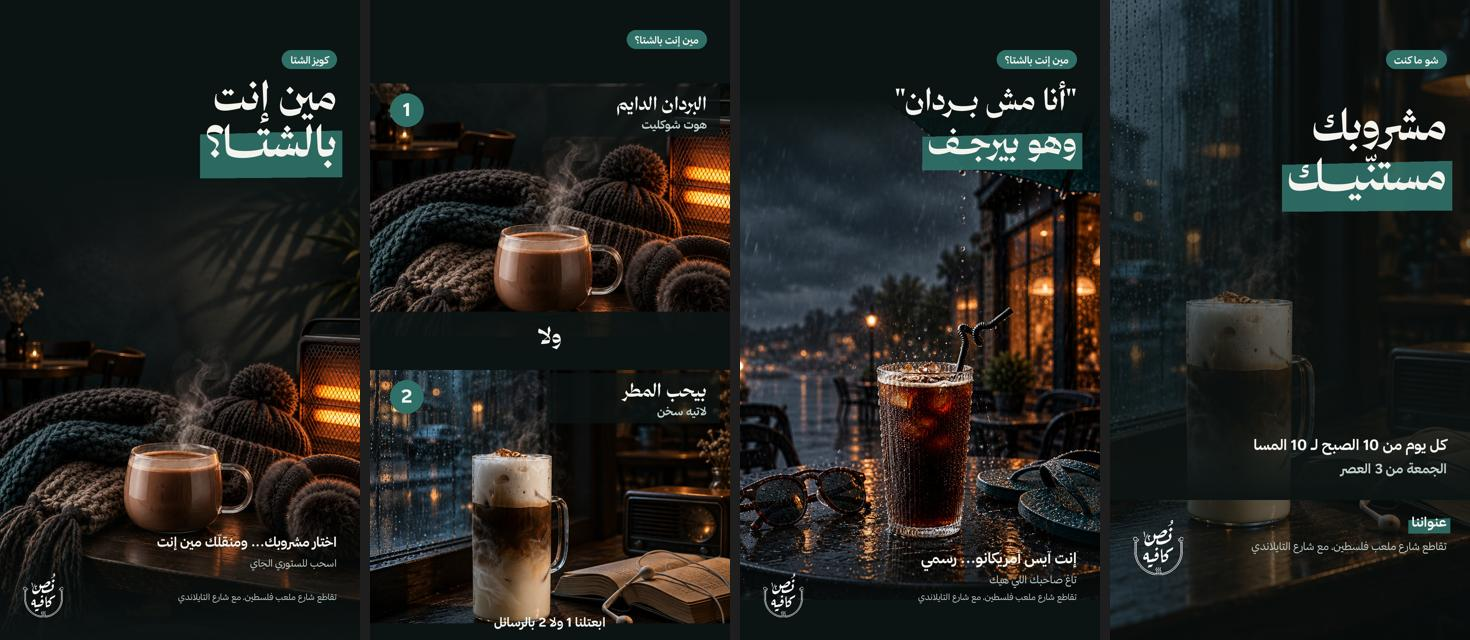
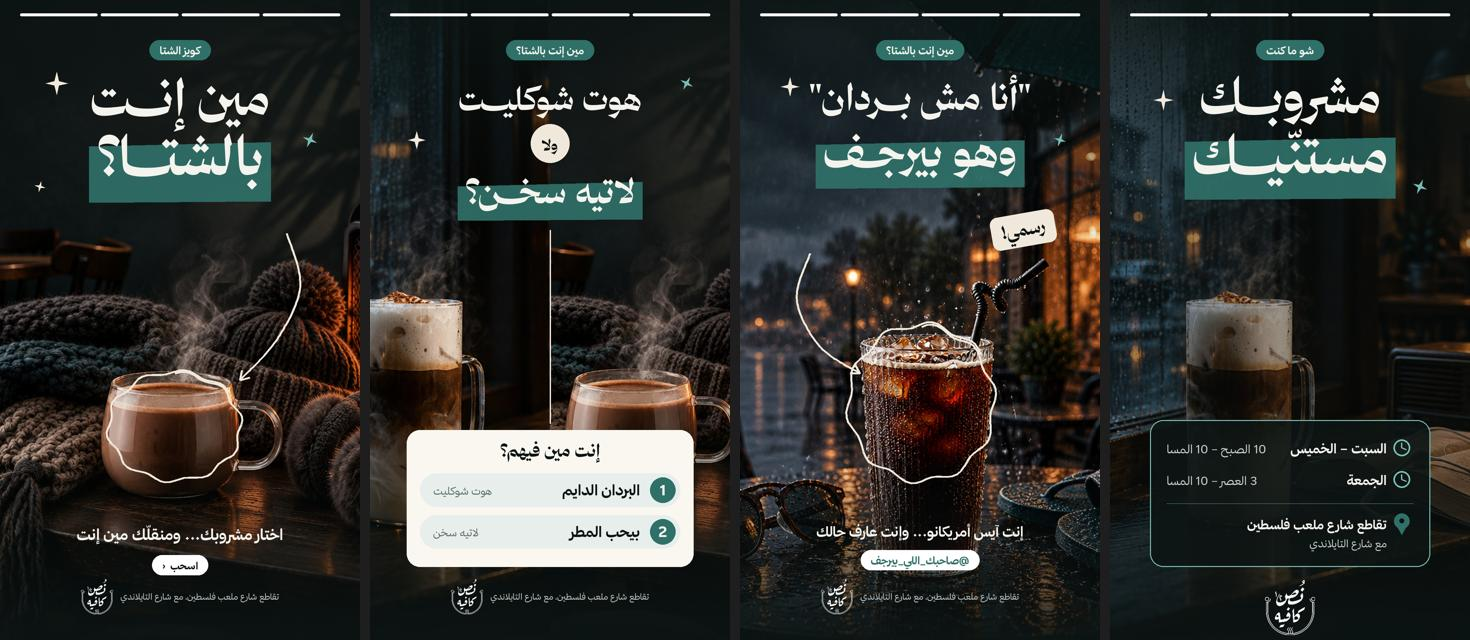
Redesign story sequence: centered layout, poll card, doodles, progress bar
Claude-Session: https://claude.ai/code/session_015dwSS3fWoFBppmEP84oyNx

diff --git a/tools/story_who.py b/tools/story_who.py
@@ -1,63 +1,132 @@
 exec(open('/tmp/claude-0/-home-user-nusscafee/f7fad810-a083-54af-b56f-880f141af58a/scratchpad/post.py').read())
-import os
-SW,SH=1080,1920; BG=(12,20,19); MUT=(190,205,202)
-O=S+'out/story_who/'; os.makedirs(O,exist_ok=True)
-def fit(im,w,h,cy=.5):
-    s=max(w/im.width,h/im.height); im=im.resize((round(im.width*s),round(im.height*s)),Image.LANCZOS)
+import os,math,random
+random.seed(7)
+SW,SH=1080,1920; CX=SW//2; BG=(12,20,19); MUT=(195,208,205); TL=(120,190,180); CREAM=(240,232,218)
+O=S+'out/story_who2/'; os.makedirs(O,exist_ok=True)
+def fit(im,w,h,cy=.5,zoom=1.0):
+    s=max(w/im.width,h/im.height)*zoom; im=im.resize((round(im.width*s),round(im.height*s)),Image.LANCZOS)
     x=(im.width-w)//2; y=int((im.height-h)*cy); return im.crop((x,y,x+w,y+h))
-def canvas(): return Image.new('RGBA',(SW,SH),BG+(255,))
-def fade(img,y0,y1,up=True):
+def grad(img,y0,y1,a0,a1):
     ov=Image.new('RGBA',(SW,SH),(0,0,0,0)); d=ImageDraw.Draw(ov)
     for y in range(y0,y1):
-        t=(y-y0)/(y1-y0); a=int(255*(t if up else 1-t)**1.2); d.line([(0,y),(SW,y)],fill=BG+(a,))
+        t=(y-y0)/max(1,y1-y0); d.line([(0,y),(SW,y)],fill=BG+(int(a0+(a1-a0)*t),))
     img.alpha_composite(ov)
-def pill(d,txt,y,xr=1010,f=None):
-    f=f or SB(30); w=tw(d,txt,f); d.rounded_rectangle([xr-w-48,y,xr,y+56],radius=28,fill=TEAL); d.text((xr-24,y+41),txt,font=f,fill=WHITE,direction='rtl',anchor='rs')
-def R(d,x,y,t,f,fill=WHITE,anchor='rs'): d.text((x,y),t,font=f,fill=fill,direction='rtl',anchor=anchor)
-def HL(img,x,y,t,f):
-    d=ImageDraw.Draw(img); hl(img,d,x,y,t,f,pad=(16,4),skew=8); d=ImageDraw.Draw(img); R(d,x,y,t,f)
-def logo(img,x,y,w=120):
-    lg=Image.open(S+'logo.png').convert('RGBA'); lg=lg.resize((w,round(lg.height*w/lg.width)),Image.LANCZOS); img.alpha_composite(lg,(x,y))
-def foot(img):
-    d=ImageDraw.Draw(img); logo(img,70,SH-200); R(d,1010,SH-120,'تقاطع شارع ملعب فلسطين، مع شارع التايلاندي',SR(26),MUT)
+def C(d,y,t,f,fill=WHITE): d.text((CX,y),t,font=f,fill=fill,direction='rtl',anchor='ms')
+def W(d,t,f): return tw(d,t,f)
+def HLC(img,y,t,f,skew=9):
+    d=ImageDraw.Draw(img); w=W(d,t,f); xr=CX+w/2
+    hl(img,d,xr,y,t,f,pad=(22,6),skew=skew); d=ImageDraw.Draw(img); d.text((xr,y),t,font=f,fill=WHITE,direction='rtl',anchor='rs')
+def progress(img,i,n=4):
+    d=ImageDraw.Draw(img); gap=10; w=(SW-120-gap*(n-1))/n
+    for k in range(n):
+        x=60+k*(w+gap); d.rounded_rectangle([x,40,x+w,48],radius=4,fill=(255,255,255,235) if k<=i else (255,255,255,80))
+def pillC(img,y,t,f=None,fill=TEAL,fg=WHITE):
+    d=ImageDraw.Draw(img); f=f or SB(32); w=W(d,t,f)
+    d.rounded_rectangle([CX-w/2-30,y,CX+w/2+30,y+60],radius=30,fill=fill); d.text((CX,y+43),t,font=f,fill=fg,direction='rtl',anchor='ms')
+def sparkle(img,x,y,r,col=CREAM,rot=0):
+    d=ImageDraw.Draw(img); pts=[]
+    for k in range(8):
+        a=rot+k*math.pi/4; rr=r if k%2==0 else r*.28
+        pts.append((x+rr*math.cos(a),y+rr*math.sin(a)))
+    d.polygon(pts,fill=col)
+def curve(pts,n=24):
+    P=[pts[0]]+pts+[pts[-1]]; out=[]
+    for i in range(1,len(P)-2):
+        p0,p1,p2,p3=P[i-1],P[i],P[i+1],P[i+2]
+        for k in range(n):
+            t=k/n; t2,t3=t*t,t*t*t
+            out.append(tuple(.5*((2*p1[j])+(-p0[j]+p2[j])*t+(2*p0[j]-5*p1[j]+4*p2[j]-p3[j])*t2+(-p0[j]+3*p1[j]-3*p2[j]+p3[j])*t3) for j in (0,1)))
+    out.append(pts[-1]); return out
+def arrow(img,pts,col=CREAM,w=6):
+    d=ImageDraw.Draw(img); c=curve(pts); d.line(c,fill=col,width=w,joint='curve')
+    (ax,ay),(bx,by)=c[-5],c[-1]; a=math.atan2(by-ay,bx-ax)
+    for s in (.55,-.55): d.line([(bx,by),(bx-30*math.cos(a+s),by-30*math.sin(a+s))],fill=col,width=w)
+def scribble(img,box,col=CREAM,w=6,loops=1.15):
+    d=ImageDraw.Draw(img); x0,y0,x1,y1=box; cx,cy=(x0+x1)/2,(y0+y1)/2; rx,ry=(x1-x0)/2,(y1-y0)/2; pts=[]
+    N=90
+    for k in range(int(N*loops)+1):
+        a=-math.pi/2+2*math.pi*k/N; j=1+0.04*math.sin(k*.7)+0.03*(k/N)
+        pts.append((cx+rx*j*math.cos(a),cy+ry*j*math.sin(a)))
+    d.line(pts,fill=col,width=w,joint='curve')
+def sticker(img,cx,cy,t,f,rot=-8,fill=CREAM,fg=BG):
+    tmp=Image.new('RGBA',(10,10)); dd=ImageDraw.Draw(tmp); w=W(dd,t,f); h=f.size*1.5
+    lay=Image.new('RGBA',(int(w+70),int(h+30)),(0,0,0,0)); d=ImageDraw.Draw(lay)
+    d.rounded_rectangle([6,6,lay.width-6,lay.height-6],radius=22,fill=fill)
+    d.text((lay.width/2,lay.height/2+f.size*.32),t,font=f,fill=fg,direction='rtl',anchor='ms')
+    lay=lay.rotate(rot,expand=True,resample=Image.BICUBIC); img.alpha_composite(lay,(int(cx-lay.width/2),int(cy-lay.height/2)))
+def footer(img,y=1790):
+    d=ImageDraw.Draw(img); lg=Image.open(S+'logo.png').convert('RGBA'); lw=96; lg=lg.resize((lw,round(lg.height*lw/lg.width)),Image.LANCZOS)
+    t='تقاطع شارع ملعب فلسطين، مع شارع التايلاندي'; f=SR(26); w=W(d,t,f); tot=lw+22+w; x=CX-tot/2
+    img.alpha_composite(lg,(int(x),int(y-lg.height/2))); d.text((x+lw+22+w,y+9),t,font=f,fill=MUT,direction='rtl',anchor='rs')
 g1=Image.open(S+'who2/g01.png').convert('RGB'); g2=Image.open(S+'who2/g02.png').convert('RGB'); g5=Image.open(S+'who2/g05.png').convert('RGB')
-# 1 hook
-im=canvas(); im.paste(fit(g1,SW,1400,.55),(0,520)); fade(im,520,820,up=False); fade(im,1500,1920)
-d=ImageDraw.Draw(im); pill(d,'كويز الشتا',150)
-R(d,1010,330,'مين إنت',DB(120)); HL(im,1010,470,'بالشتـــا؟',DB(130))
-d=ImageDraw.Draw(im); R(d,1010,1640,'اختار مشروبك... ومنقلّك مين إنت',SB(40)); R(d,1010,1700,'اسحب للستوري الجاي',SR(30),MUT); foot(im)
-im.convert('RGB').save(O+'s1.jpg',quality=95)
-# 2 poll split
-im=canvas(); top=fit(g1,SW,760,.6); bot=fit(g2,SW,760,.62)
-im.paste(top,(0,250)); im.paste(bot,(0,1110))
-d=ImageDraw.Draw(im); pill(d,'مين إنت بالشتا؟',90)
-band=Image.new('RGBA',(SW,150),BG+(235,)); im.alpha_composite(band,(0,935))
-d=ImageDraw.Draw(im); R(d,SW/2,1032,'ولا',DB(70),WHITE,'ms')
-for (y,num,a,b) in [(330,'1','البردان الدايم','هوت شوكليت'),(1190,'2','بيحب المطر','لاتيه سخن')]:
-    d.ellipse([60,y-50,160,y+50],fill=TEAL); d.text((110,y+18),num,font=SB(56),fill=WHITE,anchor='ms')
-    ov=Image.new('RGBA',(520,150),BG+(190,)); im.alpha_composite(ov,(530,y-70)); d=ImageDraw.Draw(im)
-    R(d,1010,y,a,DB(56)); R(d,1010,y+56,b,SB(34),MUT)
-R(d,SW/2,1960-80,'',SR(10))
-R(d,SW/2,1905,'',SR(10))
-d.text((SW/2,1880),'ابعتلنا 1 ولا 2 بالرسائل',font=SB(38),fill=WHITE,direction='rtl',anchor='ms')
-im.convert('RGB').save(O+'s2.jpg',quality=95)
-# 3 not cold
-im=canvas(); im.paste(fit(g5,SW,1500,.55),(0,300)); fade(im,300,600,up=False); fade(im,1550,1920)
-d=ImageDraw.Draw(im); pill(d,'مين إنت بالشتا؟',150)
-R(d,1010,330,'"أنا مش بـــردان"',DB(90)); HL(im,1010,460,'وهو بيرجـــف',DB(100))
-d=ImageDraw.Draw(im); R(d,1010,1690,'إنت آيس أمريكانو... رسمي',SB(44)); R(d,1010,1750,'تاغ صاحبك اللي هيك',SR(32),MUT); foot(im)
-im.convert('RGB').save(O+'s3.jpg',quality=95)
-# 4 CTA
-im=canvas(); im.paste(fit(g2,SW,1920,.5),(0,0))
-ov=Image.new('RGBA',(SW,SH),BG+(150,)); im.alpha_composite(ov); fade(im,900,1500)
-d=ImageDraw.Draw(im); pill(d,'شو ما كنت',150)
-R(d,1010,420,'مشروبك',DB(130)); HL(im,1010,570,'مستنّيـــك',DB(130))
+def base(src,cy=.5,zoom=1.0):
+    im=Image.new('RGBA',(SW,SH),BG+(255,)); im.paste(fit(src,SW,SH,cy,zoom),(0,0))
+    grad(im,0,760,235,0); grad(im,1350,SH,0,245); return im
+# ---- 1 HOOK
+im=base(g1,.5,1.05); progress(im,0)
+pillC(im,120,'كويز الشتا')
+d=ImageDraw.Draw(im); C(d,345,'مين إنـــت',DB(150))
+HLC(im,525,'بالشتـــا؟',DB(165))
+sparkle(im,170,250,34); sparkle(im,930,420,22,TL,.4); sparkle(im,120,560,16,CREAM,.2)
+scribble(im,(330,1120,720,1440))
+arrow(im,[(860,700),(900,860),(830,1020),(720,1140)])
+d=ImageDraw.Draw(im); C(d,1620,'اختار مشروبك... ومنقلّك مين إنت',SB(46)); 
+pillC(im,1665,'اسحب  ‹',SB(30),fill=(255,255,255),fg=BG)
+footer(im); im.convert('RGB').save(O+'s1.jpg',quality=95)
+# ---- 2 POLL
+im=Image.new('RGBA',(SW,SH),BG+(255,))
+L=fit(g1,SW//2,SH,.6,1.0); Rr=fit(g2,SW//2,SH,.62,1.0); im.paste(L,(SW//2,0)); im.paste(Rr,(0,0))
+grad(im,0,700,240,0); grad(im,1200,SH,0,250)
+d=ImageDraw.Draw(im); d.line([(CX,690),(CX,1270)],fill=CREAM,width=4)
+progress(im,1); pillC(im,120,'مين إنت بالشتا؟')
+d=ImageDraw.Draw(im); C(d,330,'هوت شوكليـــت',DB(96)); 
+d.ellipse([CX-58,372,CX+58,488],fill=CREAM); d.text((CX,452),'ولا',font=DB(48),fill=BG,direction='rtl',anchor='ms')
+HLC(im,610,'لاتيه سخـــن؟',DB(104))
+sparkle(im,140,420,26); sparkle(im,950,250,20,TL,.5)
+# poll card
+cx0,cy0,cx1,cy1=110,1290,970,1700
+d=ImageDraw.Draw(im); d.rounded_rectangle([cx0,cy0,cx1,cy1],radius=40,fill=(250,247,240))
+d.text((CX,cy0+80),'إنت مين فيهم؟',font=DB(54),fill=BG,direction='rtl',anchor='ms')
+for k,(lab,sub) in enumerate([('البردان الدايم','هوت شوكليت'),('بيحب المطر','لاتيه سخن')]):
+    y=cy0+130+k*125
+    d.rounded_rectangle([cx0+40,y,cx1-40,y+100],radius=50,fill=(232,238,236))
+    d.ellipse([cx1-130,y+12,cx1-54,y+88],fill=TEAL); d.text((cx1-92,y+66),str(k+1),font=SB(44),fill=WHITE,anchor='ms')
+    d.text((cx1-160,y+66),lab,font=SB(44),fill=BG,direction='rtl',anchor='rs')
+    d.text((cx0+80,y+64),sub,font=SR(32),fill=(90,110,106),direction='rtl',anchor='ls')
+footer(im); im.convert('RGB').save(O+'s2.jpg',quality=95)
+# ---- 3 NOT COLD
+im=base(g5,.55,1.08); progress(im,2); pillC(im,120,'مين إنت بالشتا؟')
+d=ImageDraw.Draw(im); C(d,330,'"أنا مش بـــردان"',DB(110))
+HLC(im,500,'وهو بيرجـــف',DB(130))
+sticker(im,850,690,'رسمي!',DB(54),rot=10)
+sparkle(im,150,260,28); sparkle(im,960,420,18,TL,.3)
+scribble(im,(330,980,760,1440),w=6)
+arrow(im,[(210,760),(170,900),(240,1040),(360,1120)])
+d=ImageDraw.Draw(im); C(d,1610,'إنت آيس أمريكانو... وإنت عارف حالك',SB(42))
+pillC(im,1650,'@صاحبك_اللي_بيرجف',SB(32),fill=(255,255,255),fg=TEAL)
+footer(im); im.convert('RGB').save(O+'s3.jpg',quality=95)
+# ---- 4 CTA
+im=base(g2,.5,1.0); ov=Image.new('RGBA',(SW,SH),BG+(90,)); im.alpha_composite(ov); progress(im,3)
+pillC(im,120,'شو ما كنت')
+d=ImageDraw.Draw(im); C(d,340,'مشروبـــك',DB(150)); HLC(im,520,'مستنّيـــك',DB(160))
+sparkle(im,160,300,30); sparkle(im,930,560,22,TL,.4)
+# info card
+cx0,cy0,cx1,cy1=120,1260,960,1700
+card=Image.new('RGBA',(SW,SH),(0,0,0,0)); dc=ImageDraw.Draw(card); dc.rounded_rectangle([cx0,cy0,cx1,cy1],radius=40,fill=BG+(225,),outline=TL+(255,),width=3); im.alpha_composite(card)
 d=ImageDraw.Draw(im)
-y=1350
-for t,f,c in [('كل يوم من 10 الصبح لـ 10 المسا',SB(44),WHITE),('الجمعة من 3 العصر',SB(40),MUT)]:
-    R(d,1010,y,t,f,c); y+=70
-hl(im,d,1010,1580,'عنواننا',SB(40),pad=(10,3),skew=4); d=ImageDraw.Draw(im); R(d,1010,1580,'عنواننا',SB(40))
-R(d,1010,1650,'تقاطع شارع ملعب فلسطين، مع شارع التايلاندي',SR(32),MUT); logo(im,70,1560,150)
+rows=[('السبت – الخميس','10 الصبح – 10 المسا'),('الجمعة','3 العصر – 10 المسا')]
+for k,(a,b) in enumerate(rows):
+    y=cy0+100+k*95
+    # clock icon
+    d.ellipse([cx1-110,y-42,cx1-60,y+8],outline=TL,width=5); d.line([(cx1-85,y-17),(cx1-85,y-32)],fill=TL,width=4); d.line([(cx1-85,y-17),(cx1-72,y-12)],fill=TL,width=4)
+    d.text((cx1-130,y),a,font=SB(40),fill=WHITE,direction='rtl',anchor='rs'); d.text((cx0+50,y),b,font=SR(36),fill=MUT,direction='rtl',anchor='ls')
+d.line([(cx0+50,cy0+250),(cx1-50,cy0+250)],fill=(60,90,86),width=2)
+y=cy0+340
+# pin icon
+d.ellipse([cx1-108,y-60,cx1-62,y-14],fill=TEAL); d.polygon([(cx1-104,y-30),(cx1-66,y-30),(cx1-85,y+4)],fill=TEAL); d.ellipse([cx1-92,y-45,cx1-78,y-31],fill=BG)
+d.text((cx1-130,y-12),'تقاطع شارع ملعب فلسطين',font=SB(38),fill=WHITE,direction='rtl',anchor='rs')
+d.text((cx1-130,y+42),'مع شارع التايلاندي',font=SR(32),fill=MUT,direction='rtl',anchor='rs')
+lg=Image.open(S+'logo.png').convert('RGBA'); lw=150; lg=lg.resize((lw,round(lg.height*lw/lg.width)),Image.LANCZOS); im.alpha_composite(lg,(CX-lw//2,1740))
 im.convert('RGB').save(O+'s4.jpg',quality=95)
 sh=Image.new('RGB',(4*360+30,640),(30,30,30))
 for i in range(4): sh.paste(Image.open(O+f's{i+1}.jpg').resize((360,640)),(i*370,0))
